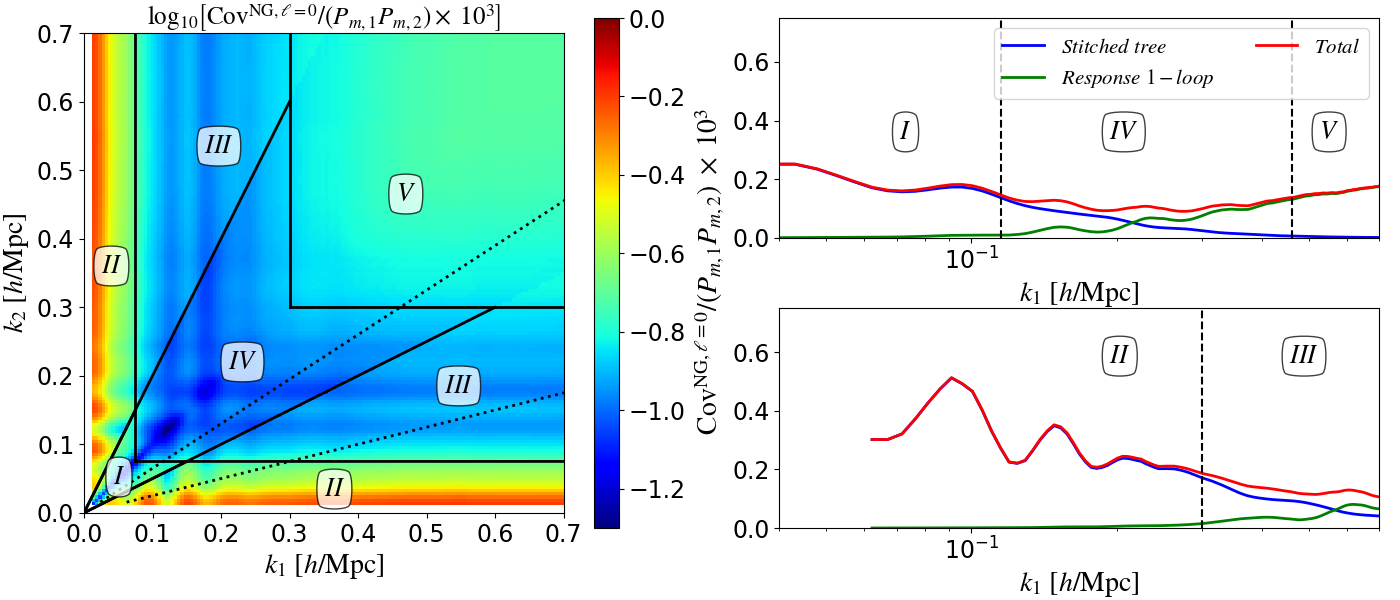
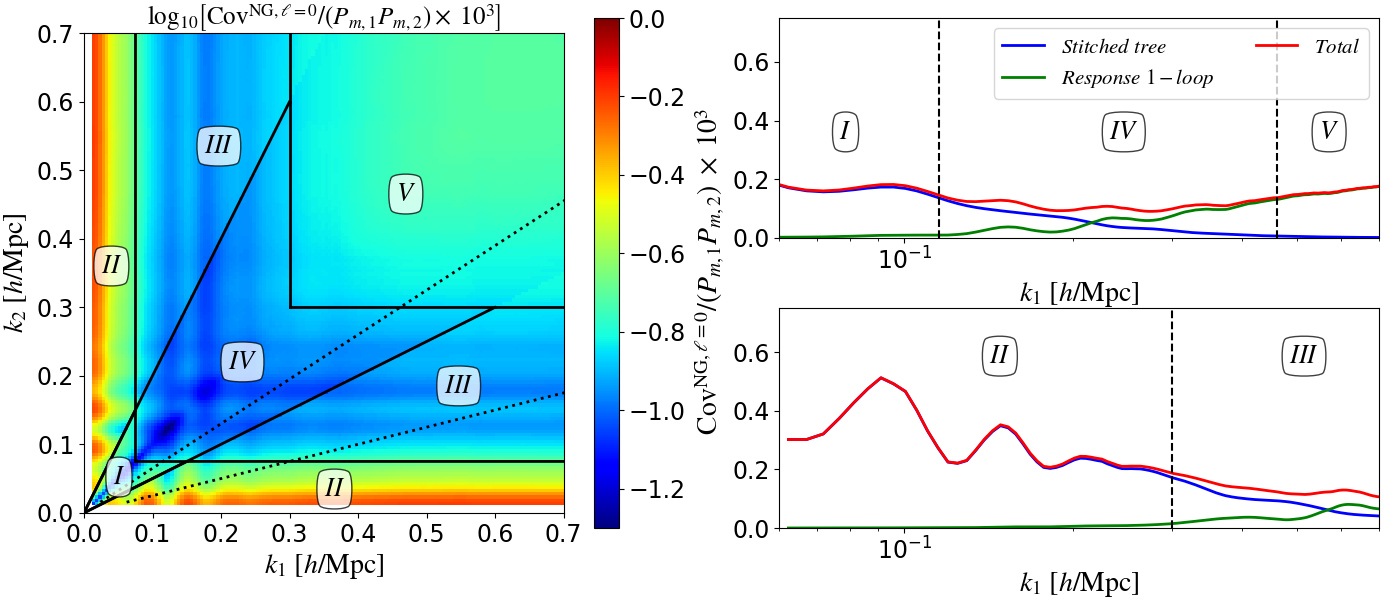
tweak in plot

diff --git a/plots/plot_regimes_v2.py b/plots/plot_regimes_v2.py
@@ -98,13 +98,13 @@ plot(ktoplot_1, oloop_curve       , linestyle = 'solid' , linewidth = 2.0, c = '
 plot(ktoplot_1, total_curve       , linestyle = 'solid' , linewidth = 2.0, c = 'r', label = r"$Total$")
 
 axvline(0.075/squeezeness_1, linestyle = 'dashed', c = 'k')
-annotate(r"$II$"  ,xy=(0.55,0.75),xycoords='axes fraction',rotation=0,xytext=(0.55,0.75),textcoords='axes fraction',bbox=dict(boxstyle="round4",fc='w',alpha=0.75),color='k',fontsize = textsize)
+annotate(r"$II$"  ,xy=(0.35,0.75),xycoords='axes fraction',rotation=0,xytext=(0.35,0.75),textcoords='axes fraction',bbox=dict(boxstyle="round4",fc='w',alpha=0.75),color='k',fontsize = textsize)
 annotate(r"$III$" ,xy=(0.85,0.75),xycoords='axes fraction',rotation=0,xytext=(0.85,0.75),textcoords='axes fraction',bbox=dict(boxstyle="round4",fc='w',alpha=0.75),color='k',fontsize = textsize)
 
 xlabel(r'$k_1\ \left[h/{\rm Mpc}\right]$'        , fontsize = labelsize)
 ylabel(r'$\ \ \ \ \ \ \ \ \ \ \ \ \ \ \ \ \ \ \ \ \ \ \ \ \ \ \ \ \ \ \ \ \ \ \ \ \ \ \ \ \ \ \ \ {\rm Cov}^{\rm NG, \ell=0}/(P_{m,1} P_{m,2})\ \times\ 10^{3}$'        , fontsize = labelsize)
 #xlim(min((k_common)), max((k_common)))
-xlim(0.04, 0.7)
+xlim(0.06, 0.7)
 ylim(0.0, 0.75)
 xscale('log')
 xticks(size = ticksize)
@@ -126,14 +126,14 @@ plot(ktoplot_2, total_curve       , linestyle = 'solid' , linewidth = 2.0, c = '
 
 axvline(0.075/squeezeness_2, linestyle = 'dashed', c = 'k')
 axvline(0.300/squeezeness_2, linestyle = 'dashed', c = 'k')
-annotate(r"$I$"  ,xy=(0.20,0.45),xycoords='axes fraction',rotation=0,xytext=(0.20,0.45),textcoords='axes fraction',bbox=dict(boxstyle="round4",fc='w',alpha=0.75),color='k',fontsize = textsize)
+annotate(r"$I$"  ,xy=(0.10,0.45),xycoords='axes fraction',rotation=0,xytext=(0.10,0.45),textcoords='axes fraction',bbox=dict(boxstyle="round4",fc='w',alpha=0.75),color='k',fontsize = textsize)
 annotate(r"$IV$" ,xy=(0.55,0.45),xycoords='axes fraction',rotation=0,xytext=(0.55,0.45),textcoords='axes fraction',bbox=dict(boxstyle="round4",fc='w',alpha=0.75),color='k',fontsize = textsize)
 annotate(r"$V$"  ,xy=(0.90,0.45),xycoords='axes fraction',rotation=0,xytext=(0.90,0.45),textcoords='axes fraction',bbox=dict(boxstyle="round4",fc='w',alpha=0.75),color='k',fontsize = textsize)
 
 xlabel(r'$k_1\ \left[h/{\rm Mpc}\right]$'        , fontsize = labelsize)
 #ylabel(r'${\rm Cov}_{12}/P_{m,1}/P_{m,2}\ \times\ 10^{3}$'        , fontsize = labelsize)
 #xlim(min((k_common)), max((k_common)))
-xlim(0.04, 0.7)
+xlim(0.06, 0.7)
 ylim(0.0, 0.75)
 xscale('log')
 xticks(size = ticksize)
